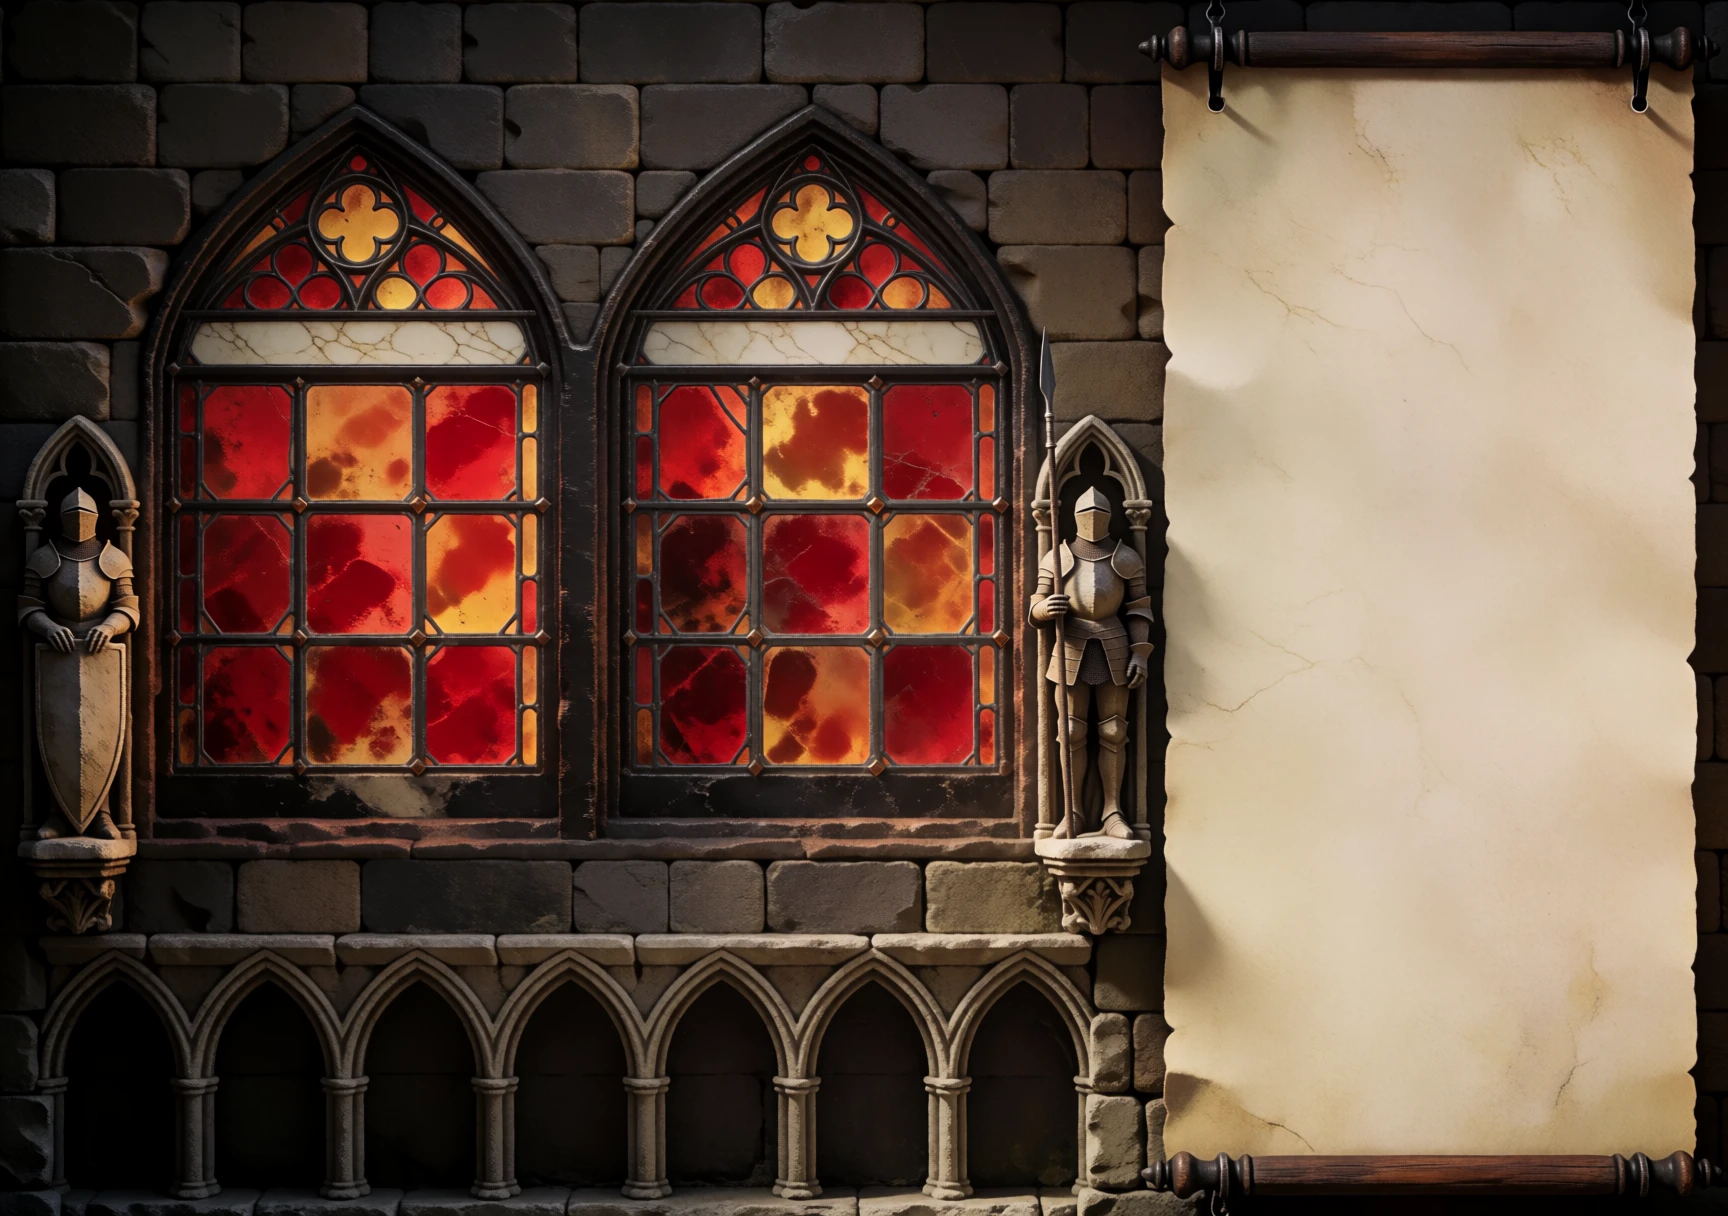
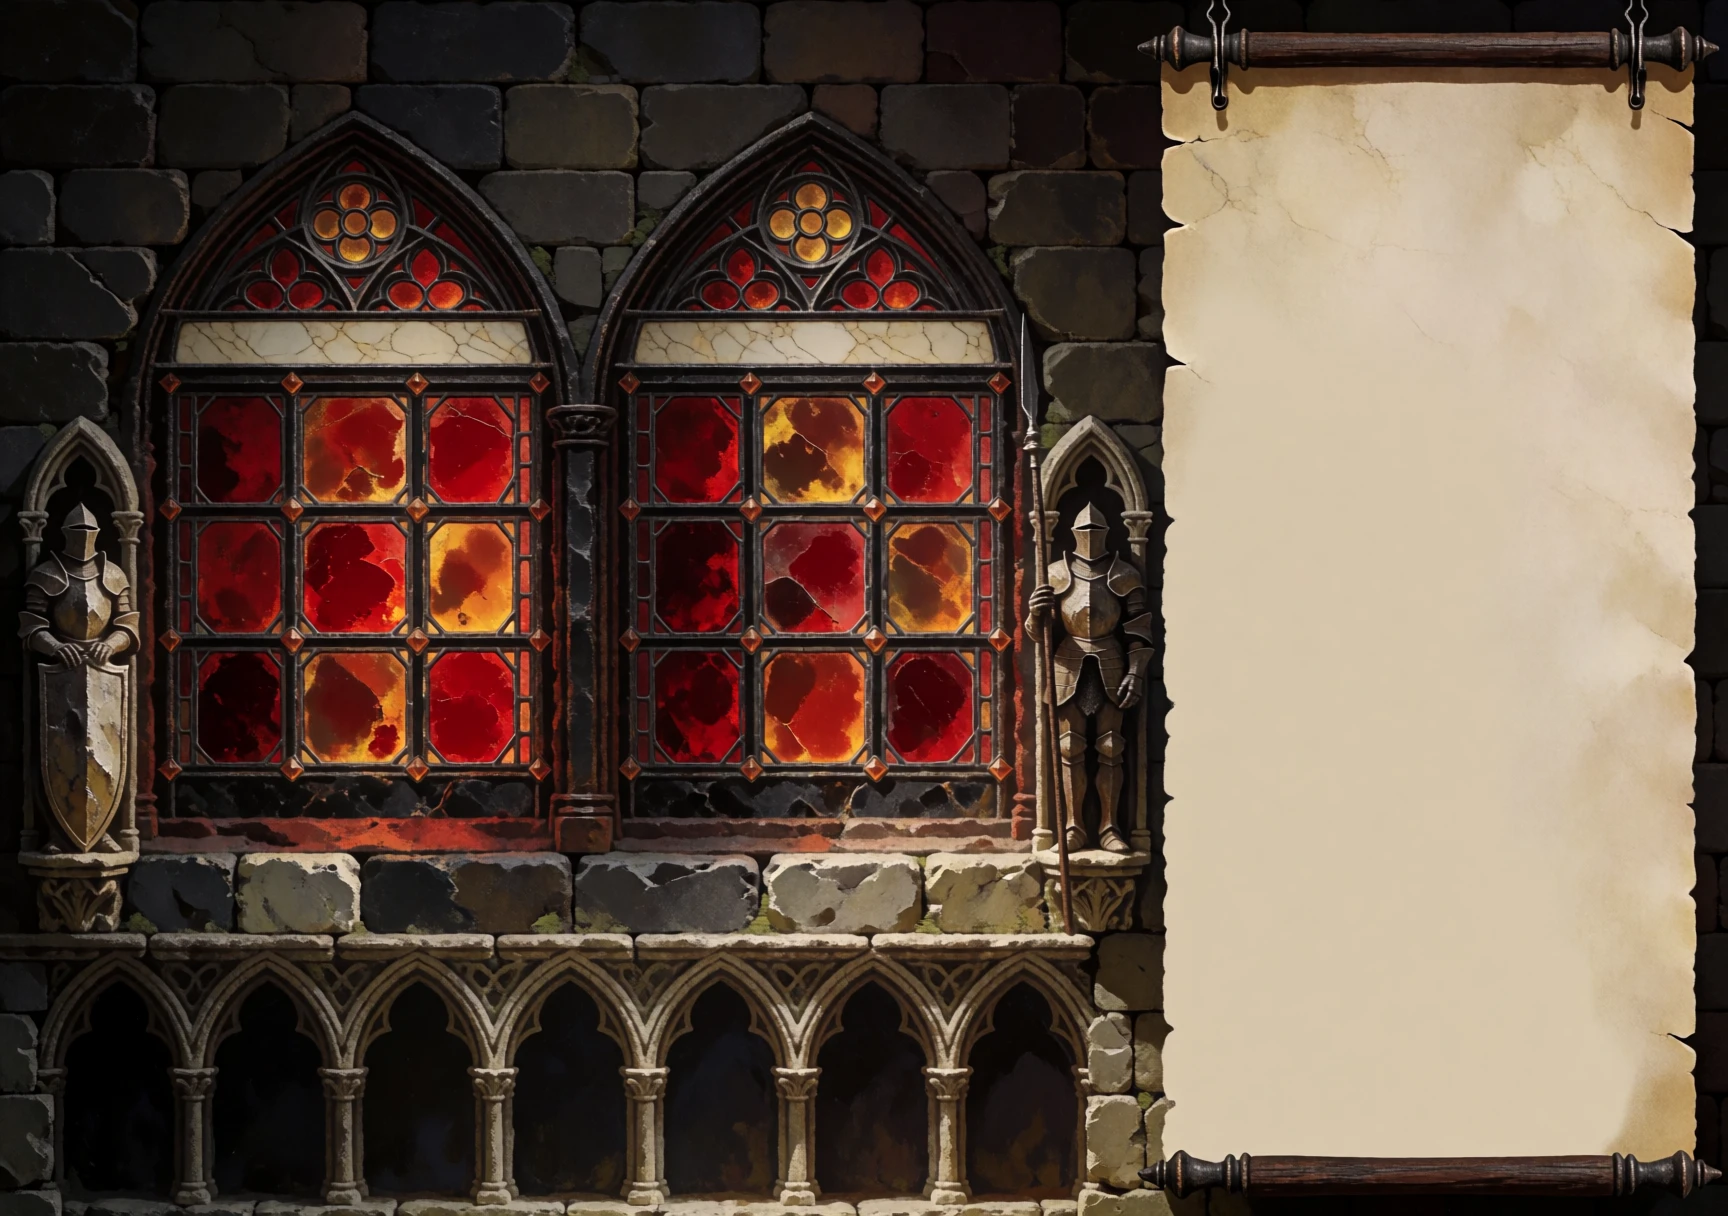
Garrison with the style line (the user: try 'Dark gothic fantasy'): round 2's greyboxes and seeds, the unit art's line in front without 'desaturated'; seed 2 in the game

diff --git a/scripts/art/hud-paint-in.ts b/scripts/art/hud-paint-in.ts
@@ -129,6 +129,18 @@ const LAYOUTS: Readonly<Record<string, Layout>> = {
     prompt: "A wide game interface wall seen straight on, painted as game interface art, in soft even light without glare. A wall of large old dressed stone blocks in irregular courses, warm dark grey, weathered and chipped, each block a little different, mostly in deep shadow, plain, with no pattern on it. Side by side, two tall pointed gothic lancet windows of lead and stained glass in red and amber, each in a heavy moulded frame of black iron, with tracery and a small round rose in its pointed head, and below it a three by three grid of nine large square panes of glowing red and amber glass in heavy dark leads, under a long cream marble plate across the window, blank; small faceted amber studs where the iron frames join. Outside each window, in a tall narrow pointed niche, a grown armoured knight carved in pale weathered stone stands guard, the left one resting both hands on a tall shield, the right one holding a tall spear, old and worn, matte. Along the foot of the wall, a low arcade of small dark pointed arches like a crypt, their arches in pale stone. On the right, a tall sheet of old cream parchment, blank, hangs from two black iron hooks on a turned dark wooden roller, with a second roller weighting its foot. No lattice, no grid pattern on the wall. No text, no letters.",
   },
   /**
+   * The garrison, round 3: round 2's greyboxes (copied) and prompt with one change, the style line the unit art uses in
+   * front, its "desaturated" left out (night one's grey): the user, 2026-10-11, "Dark gothic fantasy. Add that and try
+   * again". Same seeds as round 2, for comparison.
+   */
+  "jilliath-garrison-3": {
+    page: [1236, 864],
+    size: [1728, 1216],
+    denoise: 0.75,
+    depthStrength: 0.9,
+    prompt: "Dark gothic fantasy in the manner of Disciples II's art: rich, brooding and ornate, with dark accents, grim. A wide game interface wall seen straight on, painted as game interface art, in soft even light without glare. A wall of large old dressed stone blocks in irregular courses, warm dark grey, weathered and chipped, each block a little different, mostly in deep shadow, plain, with no pattern on it. Side by side, two tall pointed gothic lancet windows of lead and stained glass in red and amber, each in a heavy moulded frame of black iron, with tracery and a small round rose in its pointed head, and below it a three by three grid of nine large square panes of glowing red and amber glass in heavy dark leads, under a long cream marble plate across the window, blank; small faceted amber studs where the iron frames join. Outside each window, in a tall narrow pointed niche, a grown armoured knight carved in pale weathered stone stands guard, the left one resting both hands on a tall shield, the right one holding a tall spear, old and worn, matte. Along the foot of the wall, a low arcade of small dark pointed arches like a crypt, their arches in pale stone. On the right, a tall sheet of old cream parchment, blank, hangs from two black iron hooks on a turned dark wooden roller, with a second roller weighting its foot. No lattice, no grid pattern on the wall. No text, no letters.",
+  },
+  /**
    * Jilliath's panel frame, one painting used as a nine-slice border round every panel left of the column (the
    * garrison, the city's panel, the tab frame), at the column's density: the user's review found the wall twice as
    * blurred as the column and the two not joined.

diff --git a/docs/design/hud-pieces.md b/docs/design/hud-pieces.md
@@ -777,3 +777,8 @@ if any, is an inset; big areas are parchment, marble or pictures.
 - **The column's masonry rolled back (the user):** "you were not supposed to touch the angel or what's behind her"; the
   repaint laid "unthemed low-res bricks" behind her. The accepted column (the door rendition, emblems centred) is back,
   its diaper included. An accepted piece is not repainted to match a later one without asking.
+- **The style line (2026-10-11):** the user asked to try the unit art's "Dark gothic fantasy in the manner of Disciples
+  II's art" on the garrison (`jilliath-garrison-3`, round 2's greyboxes and seeds, the line in front, "desaturated" left
+  out). It darkens and dramatizes, weathers the stone, adds small ornament (a trefoil band, studs at the panes); it
+  doesn't change the composition: plain block courses stay, since the greybox asks for them. Seed 2 in the game.
+  `shots/jilliath-garrison-3.html`.

diff --git a/assets/ui/SOURCES.md b/assets/ui/SOURCES.md
@@ -37,4 +37,4 @@ removed outright.
 | File | Piece, seed | Cut |
 |---|---|---|
 | `jilliath/capitol-column.webp` | `jilliath-capitol-column-4`, 4, its base inpainted by `jilliath-capitol-door` d80-3 and `-door-edges` d70-2 (`scripts/art/hud-inpaint.ts`) | whole, 576 × 1664 |
-| `jilliath/garrison.webp` | `jilliath-garrison-2`, 2 (masonry, no lattice) | whole, 1728 × 1216 |
+| `jilliath/garrison.webp` | `jilliath-garrison-3`, 2 (round 2 with the style line) | whole, 1728 × 1216 |
